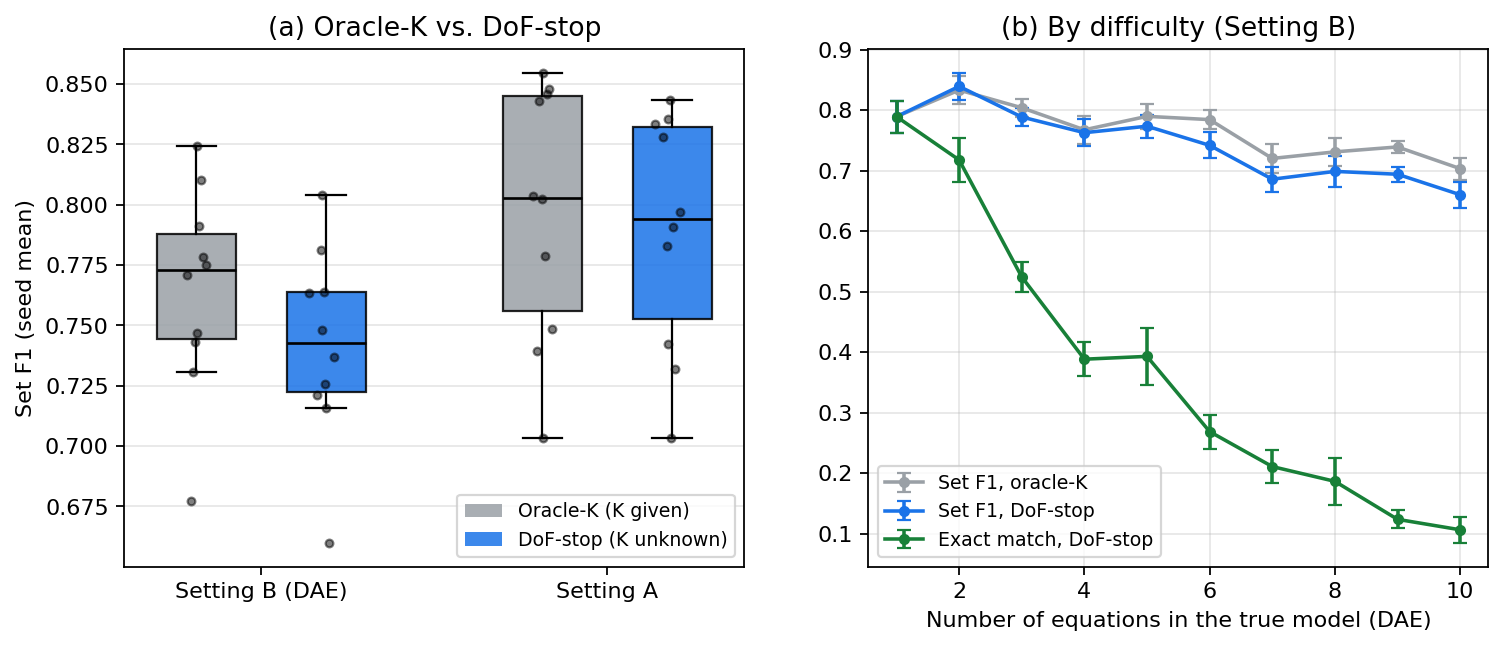
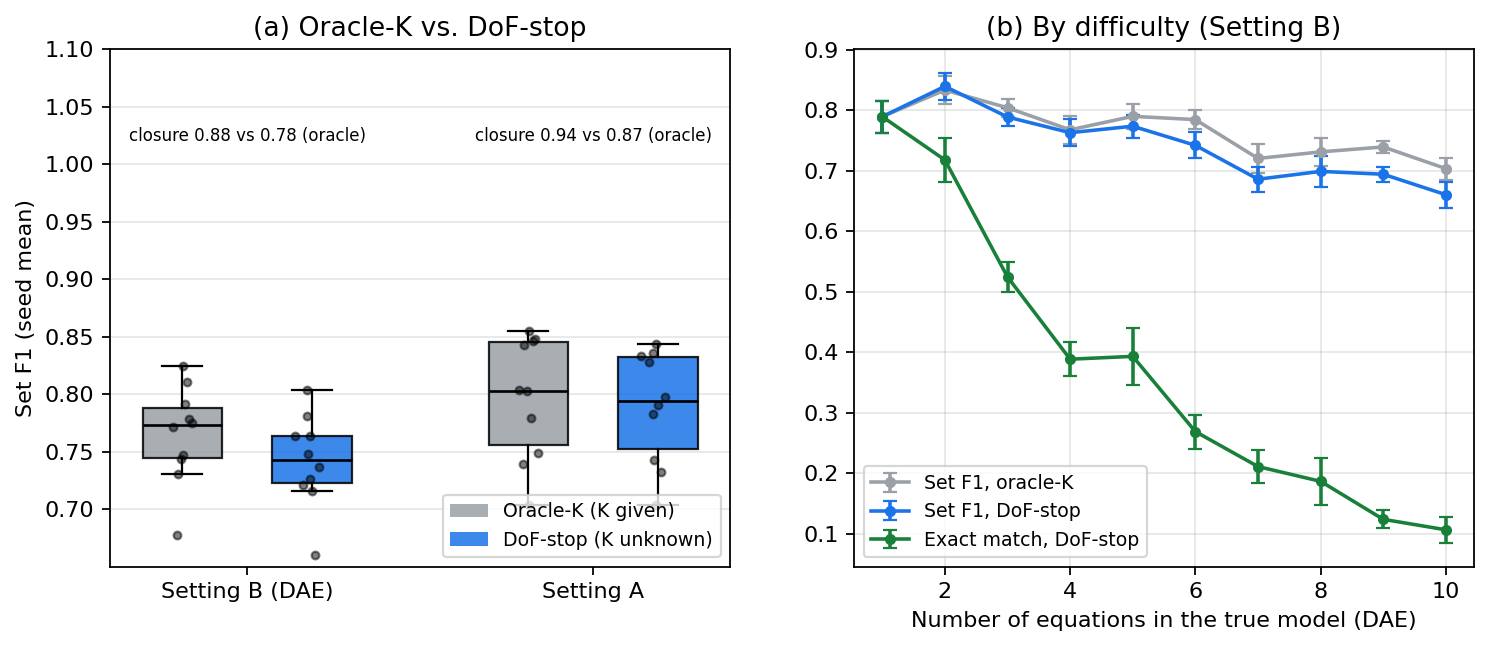
fix(thesis): greedy図ラベル重なり解消・DoF図に閉包率注記を追加

diff --git a/generate_figures_thesis.py b/generate_figures_thesis.py
@@ -392,8 +392,8 @@ def _greedy_seed_means(dirname, config):
     return [float(np.mean(v)) for _, v in sorted(vals.items())]
 
 
-GREEDY_CONFIGS = [("static", "Static", C_BASE), ("infer", "Greedy (inference)", C_INFER),
-                  ("train", "Greedy (trained)", C_TRAIN)]
+GREEDY_CONFIGS = [("static", "Static", C_BASE), ("infer", "Greedy\n(inference)", C_INFER),
+                  ("train", "Greedy\n(trained)", C_TRAIN)]
 
 
 def greedy_3way():
@@ -424,7 +424,7 @@ def greedy_3way():
             means.append(sm.mean())
             sems.append(sm.std(ddof=1) / np.sqrt(len(sm)))
         ax.errorbar(xs, means, yerr=sems, marker="o", ms=4, lw=1.6, capsize=3,
-                    label=label, color=color)
+                    label=label.replace("\n", " "), color=color)
     ax.set_xlabel("Number of equations in the true model (DAE)")
     ax.set_title("(c) By difficulty (Setting B)")
     ax.legend(fontsize=8.5)
@@ -454,6 +454,11 @@ def dof_stop():
         oracle = _dof_seed_means(setting, "set_f1_oracleK")
         dof = _dof_seed_means(setting, "set_f1_dof")
         _box(ax, [oracle, dof], [i * 2.4 - 0.45, i * 2.4 + 0.45], [C_BASE, C_PROP])
+        dof_closed = stats_doc[setting]["closed_dof"]["mean"]
+        oracle_closed = stats_doc[setting]["closed_oracleK"]["mean"]
+        ax.text(i * 2.4, 1.02, f"closure {dof_closed:.2f} vs {oracle_closed:.2f} (oracle)",
+                ha="center", fontsize=7.5)
+    ax.set_ylim(top=1.10)
     ax.set_xticks([0, 2.4])
     ax.set_xticklabels([g[1] for g in groups])
     ax.set_ylabel("Set F1 (seed mean)")
